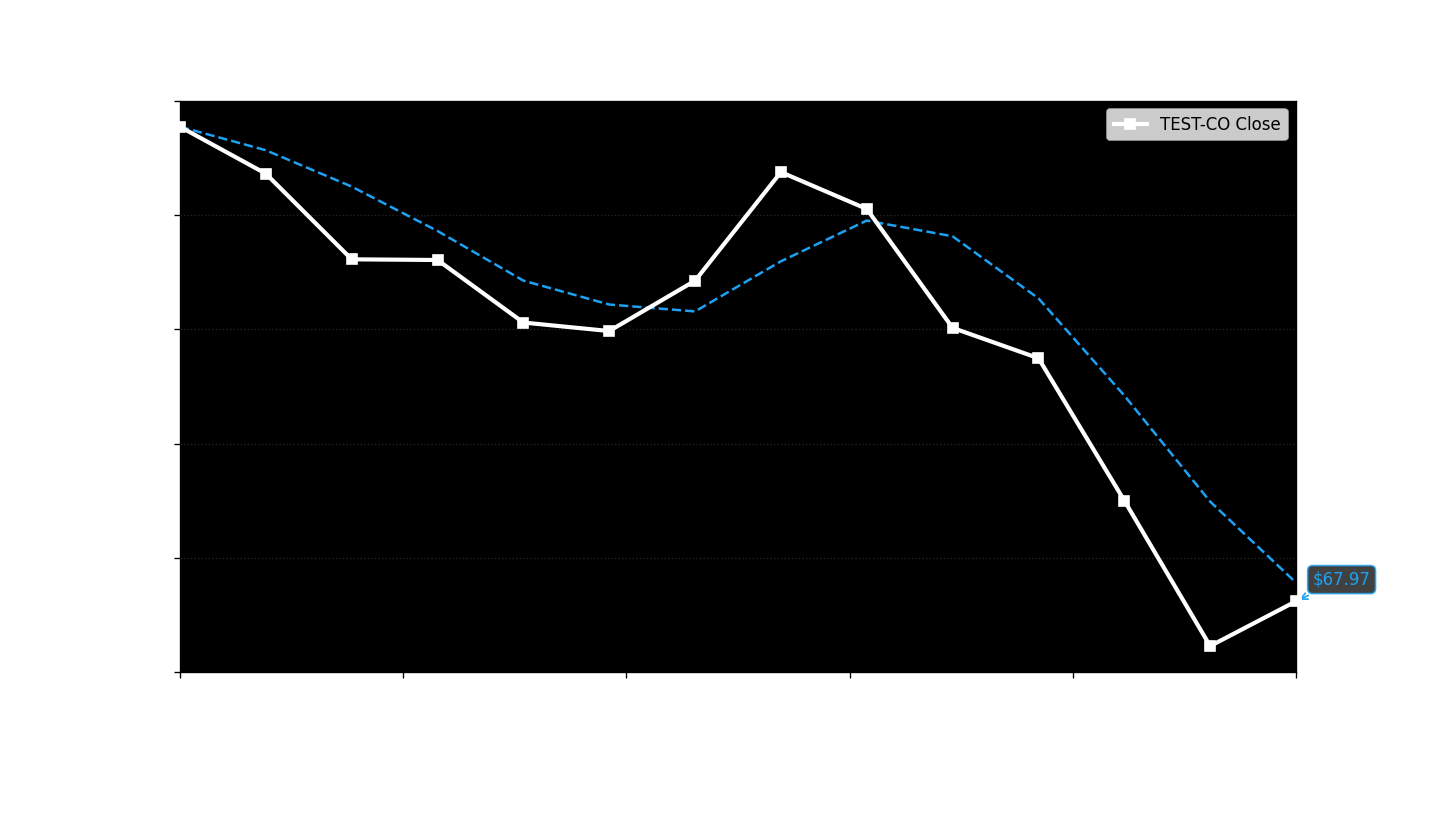
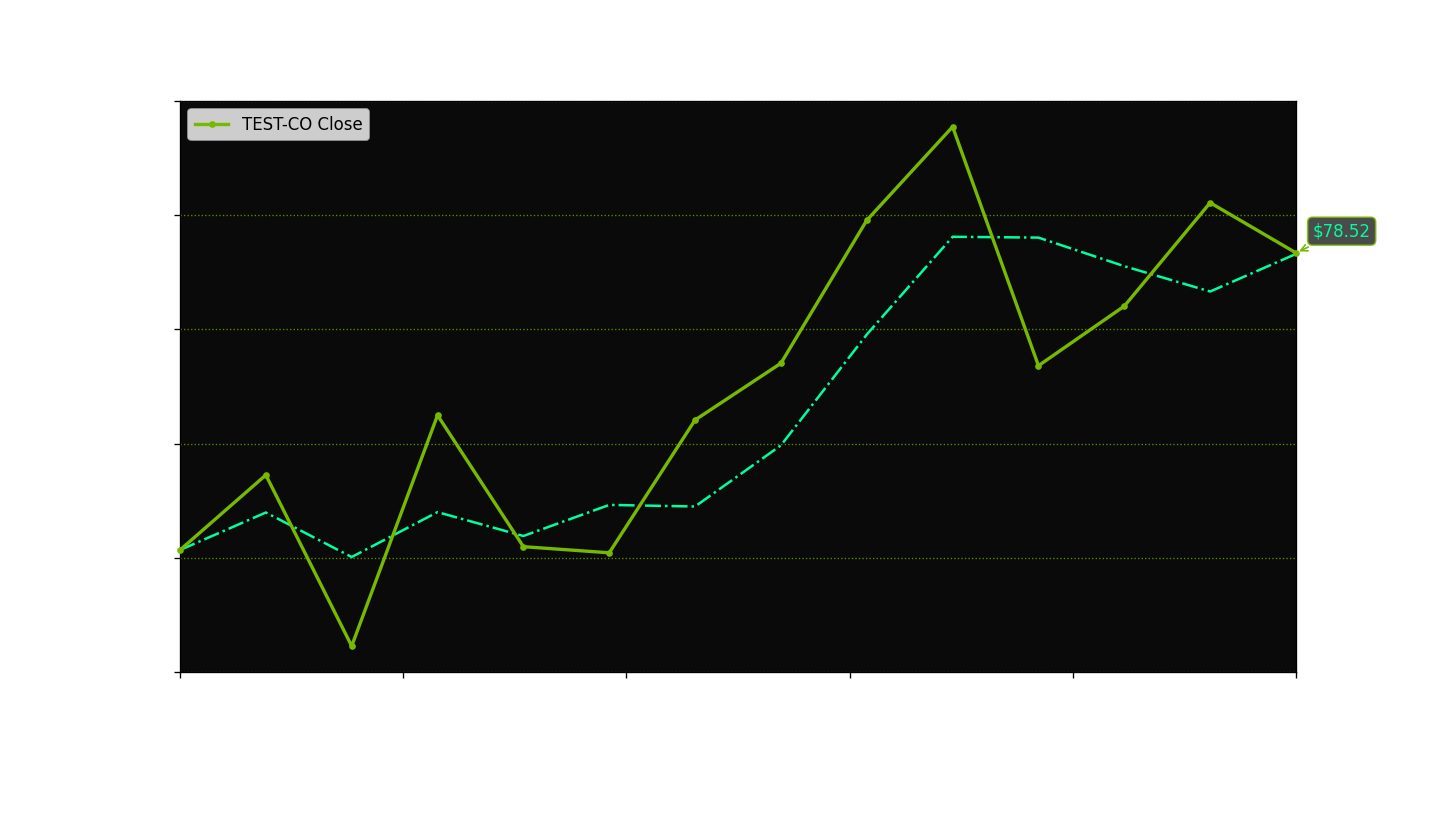
separated example themes

diff --git a/src/backend/mcp_servers/mcp_chart_generation/test_server.py b/src/backend/mcp_servers/mcp_chart_generation/test_server.py
@@ -5,115 +5,7 @@ Run this program to test the chart generation MCP server
 from server import *
 from datetime import datetime, timedelta
 import random
-
-# NVIDIA Theme – "Neon Future"
-# Inspired by NVIDIA's green-on-black aesthetic, futuristic and sleek.
-NVIDIA_THEME = {
-    # Primary line: glowing green
-    "line": "#76B900",
-    # Text: crisp white
-    "text": "#FFFFFF",
-    # Background: subtle gradient (simulated with a dark base)
-    "background": "#0A0A0A",
-    # Grid: faint green dots
-    "grid": "#76B900",
-    # Trend line: vibrant cyan
-    "trend_line": "#00FF9D",
-    "trend_line_style": "-.",
-    # Annotation: high-tech terminal style
-    "annotation_background": "#1E1E1E",
-    "annotation_edge": "#76B900",
-    "annotation_text": "#00FF9D",
-    "annotation_font": "Courier New",   # (new) monospace for tech feel
-    "arrowprops": dict(arrowstyle="->", color="#76B900", lw=1.5),  # (new) custom arrow
-}
-
-# AMD Theme – "Volcanic Energy"
-# AMD’s red evokes power and speed; orange accents add dynamism.
-AMD_THEME = {
-    "line": "#ED1C24",
-    "line_width": 2.5,
-    "marker": "^",                       # triangular markers (pointing up)
-    "marker_size": 7,
-    "text": "#FFFFFF",
-    "title_font": "Impact",              # strong, energetic
-    "label_font": "Verdana",
-    # Background: deep volcanic gradient
-    "background": "#2E0A0A",              # dark red-brown
-    "background_gradient": True,
-    # Grid: orange embers
-    "grid": "#FAA61A",
-    "grid_style": "--",
-    "grid_alpha": 0.4,
-    # Trend line: golden yellow
-    "trend_line": "#FFC72C",
-    "trend_line_style": (0, (5, 1)),      # custom dash pattern
-    # Annotation: fiery glow
-    "annotation_background": "#FFD700",
-    "annotation_edge": "#ED1C24",
-    "annotation_text": "#000000",
-    "annotation_font": "Arial Black",
-    "arrowprops": dict(arrowstyle="fancy", color="#FAA61A", lw=2),
-}
-
-# META Theme – "Digital Horizon"
-# Meta’s blue palette, clean and trustworthy, with a subtle gradient evoking the metaverse.
-META_THEME = {
-    "line": "#1877F2",
-    "line_width": 2.2,
-    "marker": "o",                       # circles – friendly and approachable
-    "marker_size": 6,
-    "text": "#1C1E21",                    # dark grey for readability on white
-    "title_font": "Helvetica Neue",       # clean sans-serif
-    "label_font": "Helvetica",
-    # Background: clean white with faint blue gradient
-    "background": "#FFFFFF",
-    "background_gradient": "#E7F0FF",      # (new) light blue gradient suggestion
-    # Grid: soft blue
-    "grid": "#B0C4DE",
-    "grid_style": "-.",
-    "grid_alpha": 0.5,
-    # Trend line: deeper blue
-    "trend_line": "#0A4C8A",
-    "trend_line_style": (0, (3, 1, 1, 1)), # custom pattern
-    # Annotation: subtle blue box
-    "annotation_background": "#E7F0FF",
-    "annotation_edge": "#1877F2",
-    "annotation_text": "#1C1E21",
-    "annotation_font": "Helvetica",
-    "arrowprops": dict(arrowstyle="->", color="#1877F2", lw=1),
-}
-
-# X Theme – "Dark Mode Edge"
-# Bold black and white with electric blue accents, reflecting the platform’s edgy vibe.
-X_THEME = {
-    "line": "#FFFFFF",                     # white line on dark
-    "line_width": 2.5,
-    "marker": "s",                         # square markers – modern
-    "marker_size": 5,
-    "text": "#FFFFFF",
-    "title_font": "Arial Black",
-    "label_font": "Arial",
-    # Background: deep black
-    "background": "#000000",
-    "background_gradient": False,
-    # Grid: dark grey, almost invisible
-    "grid": "#333333",
-    "grid_style": ":",
-    "grid_alpha": 0.2,
-    # Trend line: electric blue
-    "trend_line": "#1DA1F2",
-    "trend_line_style": "--",
-    # Annotation: high contrast with neon blue
-    "annotation_background": "#111111",
-    "annotation_edge": "#1DA1F2",
-    "annotation_text": "#1DA1F2",
-    "annotation_font": "Arial",
-    "arrowprops": dict(arrowstyle="->", color="#1DA1F2", lw=1.5),
-    # Marker edge and fill for extra style
-    "marker_edge": "#1DA1F2",               # (new) outline for markers
-    "marker_fill": "#FFFFFF",                # (new) fill color
-}
+from example_themes import *
 
 THEMES = [NVIDIA_THEME, AMD_THEME, META_THEME, X_THEME]
 

diff --git a/src/backend/mcp_servers/mcp_chart_generation/example_themes.py b/src/backend/mcp_servers/mcp_chart_generation/example_themes.py
@@ -1,0 +1,112 @@
+"""
+Example themes for financial charts
+"""
+
+# NVIDIA Theme – "Neon Future"
+# Inspired by NVIDIA's green-on-black aesthetic, futuristic and sleek.
+NVIDIA_THEME = {
+    # Primary line: glowing green
+    "line": "#76B900",
+    # Text: crisp white
+    "text": "#FFFFFF",
+    # Background: subtle gradient (simulated with a dark base)
+    "background": "#0A0A0A",
+    # Grid: faint green dots
+    "grid": "#76B900",
+    # Trend line: vibrant cyan
+    "trend_line": "#00FF9D",
+    "trend_line_style": "-.",
+    # Annotation: high-tech terminal style
+    "annotation_background": "#1E1E1E",
+    "annotation_edge": "#76B900",
+    "annotation_text": "#00FF9D",
+    "annotation_font": "Courier New",   # (new) monospace for tech feel
+    "arrowprops": dict(arrowstyle="->", color="#76B900", lw=1.5),  # (new) custom arrow
+}
+
+# AMD Theme – "Volcanic Energy"
+# AMD’s red evokes power and speed; orange accents add dynamism.
+AMD_THEME = {
+    "line": "#ED1C24",
+    "line_width": 2.5,
+    "marker": "^",                       # triangular markers (pointing up)
+    "marker_size": 7,
+    "text": "#FFFFFF",
+    "title_font": "Impact",              # strong, energetic
+    "label_font": "Verdana",
+    # Background: deep volcanic gradient
+    "background": "#2E0A0A",              # dark red-brown
+    "background_gradient": True,
+    # Grid: orange embers
+    "grid": "#FAA61A",
+    "grid_style": "--",
+    "grid_alpha": 0.4,
+    # Trend line: golden yellow
+    "trend_line": "#FFC72C",
+    "trend_line_style": (0, (5, 1)),      # custom dash pattern
+    # Annotation: fiery glow
+    "annotation_background": "#FFD700",
+    "annotation_edge": "#ED1C24",
+    "annotation_text": "#000000",
+    "annotation_font": "Arial Black",
+    "arrowprops": dict(arrowstyle="fancy", color="#FAA61A", lw=2),
+}
+
+# META Theme – "Digital Horizon"
+# Meta’s blue palette, clean and trustworthy, with a subtle gradient evoking the metaverse.
+META_THEME = {
+    "line": "#1877F2",
+    "line_width": 2.2,
+    "marker": "o",                       # circles – friendly and approachable
+    "marker_size": 6,
+    "text": "#1C1E21",                    # dark grey for readability on white
+    "title_font": "Helvetica Neue",       # clean sans-serif
+    "label_font": "Helvetica",
+    # Background: clean white with faint blue gradient
+    "background": "#FFFFFF",
+    "background_gradient": "#E7F0FF",      # (new) light blue gradient suggestion
+    # Grid: soft blue
+    "grid": "#B0C4DE",
+    "grid_style": "-.",
+    "grid_alpha": 0.5,
+    # Trend line: deeper blue
+    "trend_line": "#0A4C8A",
+    "trend_line_style": (0, (3, 1, 1, 1)), # custom pattern
+    # Annotation: subtle blue box
+    "annotation_background": "#E7F0FF",
+    "annotation_edge": "#1877F2",
+    "annotation_text": "#1C1E21",
+    "annotation_font": "Helvetica",
+    "arrowprops": dict(arrowstyle="->", color="#1877F2", lw=1),
+}
+
+# X Theme – "Dark Mode Edge"
+# Bold black and white with electric blue accents, reflecting the platform’s edgy vibe.
+X_THEME = {
+    "line": "#FFFFFF",                     # white line on dark
+    "line_width": 2.5,
+    "marker": "s",                         # square markers – modern
+    "marker_size": 5,
+    "text": "#FFFFFF",
+    "title_font": "Arial Black",
+    "label_font": "Arial",
+    # Background: deep black
+    "background": "#000000",
+    "background_gradient": False,
+    # Grid: dark grey, almost invisible
+    "grid": "#333333",
+    "grid_style": ":",
+    "grid_alpha": 0.2,
+    # Trend line: electric blue
+    "trend_line": "#1DA1F2",
+    "trend_line_style": "--",
+    # Annotation: high contrast with neon blue
+    "annotation_background": "#111111",
+    "annotation_edge": "#1DA1F2",
+    "annotation_text": "#1DA1F2",
+    "annotation_font": "Arial",
+    "arrowprops": dict(arrowstyle="->", color="#1DA1F2", lw=1.5),
+    # Marker edge and fill for extra style
+    "marker_edge": "#1DA1F2",               # (new) outline for markers
+    "marker_fill": "#FFFFFF",                # (new) fill color
+}

diff --git a/src/backend/mcp_servers/mcp_chart_generation/server.py b/src/backend/mcp_servers/mcp_chart_generation/server.py
@@ -102,5 +102,18 @@ def generate_line_chart(
 
     return render_chart_to_image(fig)
 
+# @mcp.tool() # comment out for manual testing
+# def generate_candlestick_chart(
+#     dates: list[str],
+#     opens: list[float],
+#     highs: list[float],
+#     lows: list[float],  
+#     closes: list[float],
+#     symbol: str = "STOCK",
+#     theme: dict = None
+# ) -> Image:
+    
+#     return render_chart_to_image(fig)
+
 if __name__ == "__main__":
     mcp.run()
